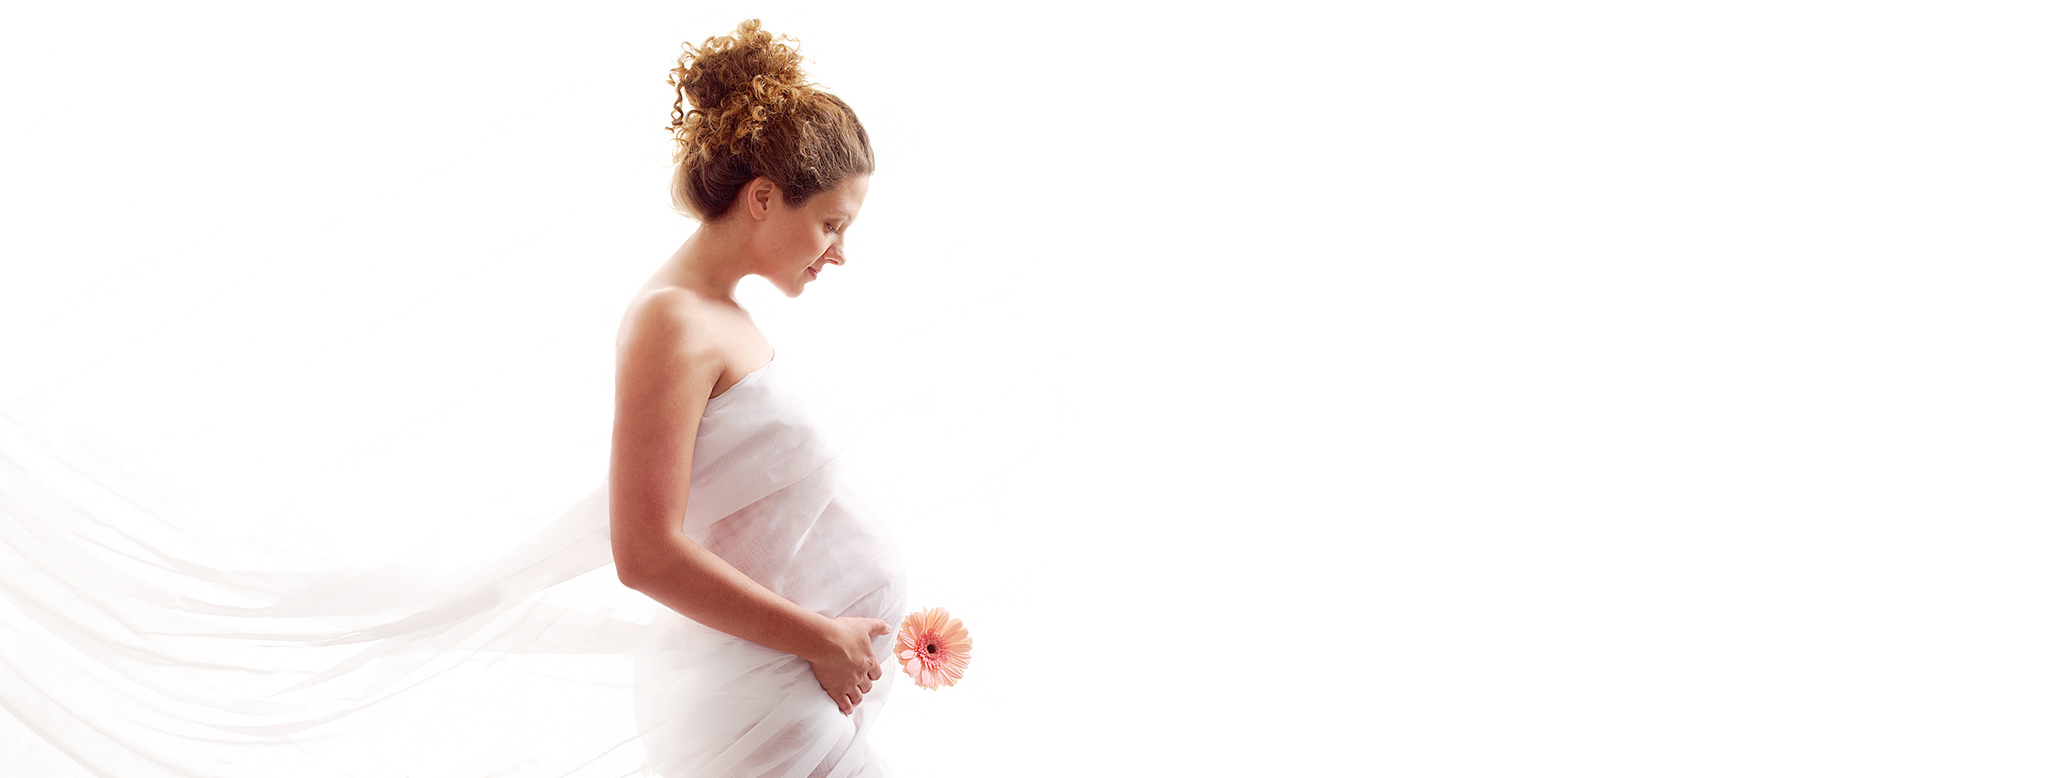
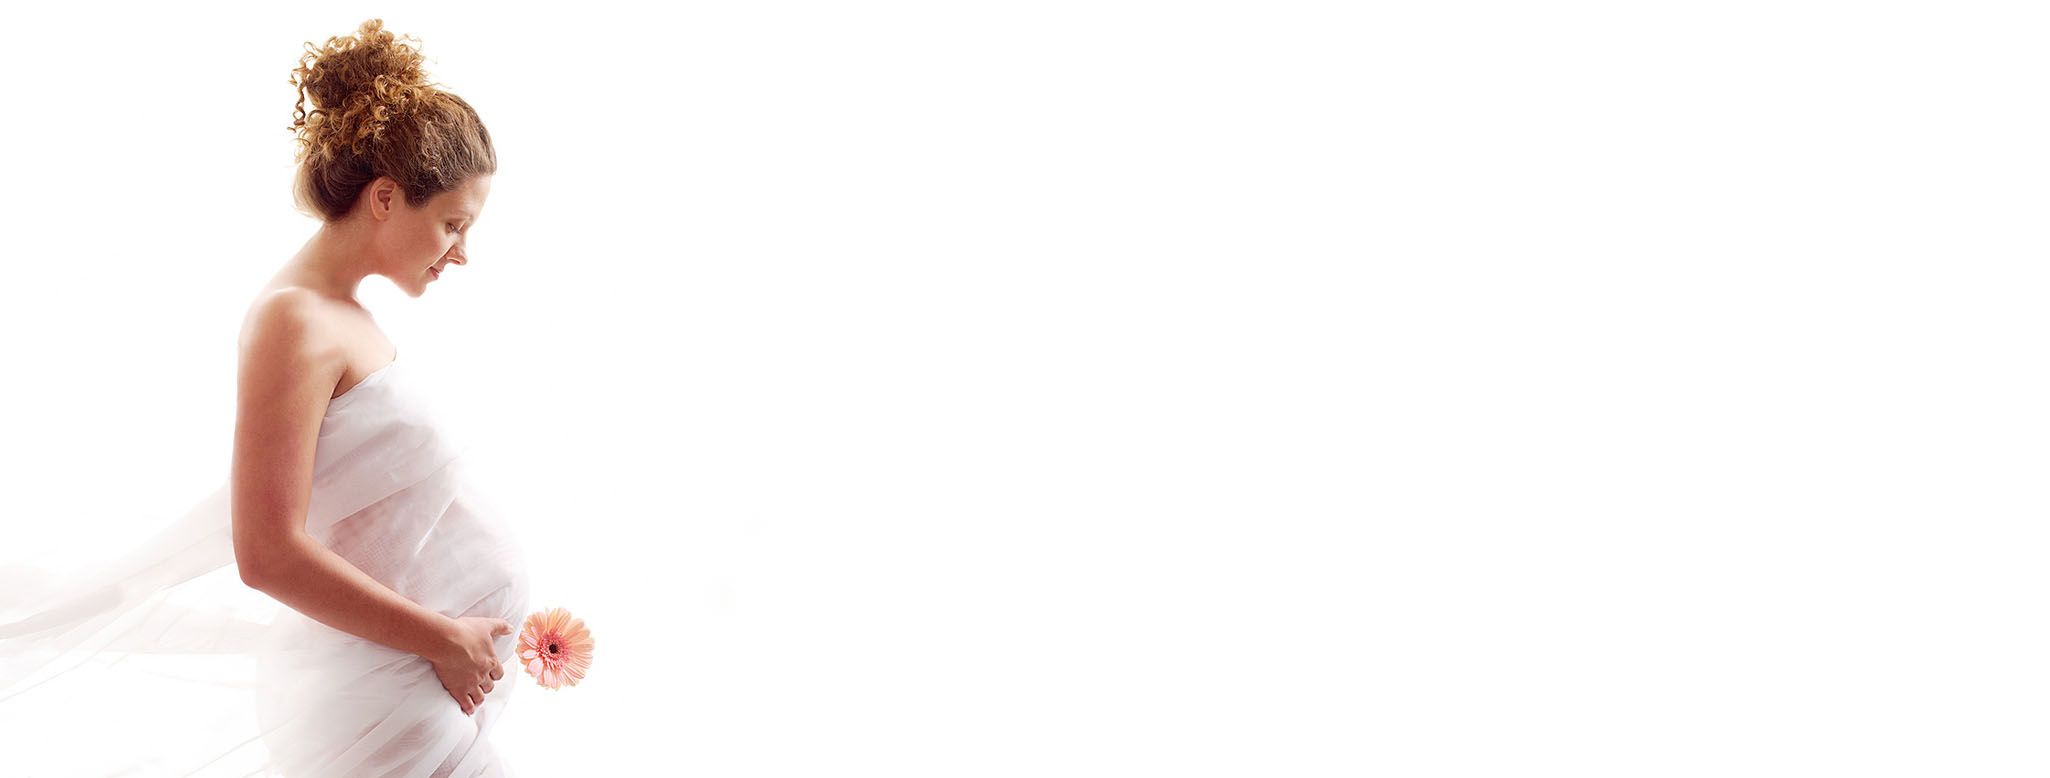
Update 19.3
-Parallax backgrounds fixed

Changed region(s): [[0.0937, 0.0308, 0.4995, 1.0]]

diff --git a/index.html b/index.html
@@ -986,7 +986,7 @@
         </section> -->
 
 	<section id="consultation" class="section-ptb-150 xs-pb-40 xs-pt-40"
-		style="background-image: url(images/about-bg3.jpg); object-fit: fill;">
+		style="background-image: url(images/about-bg3.jpg); background-size: cover;">
 		<div class="container">
 			<div class="row justify-content-end">
 				<div class="col-md-6 col-12">
